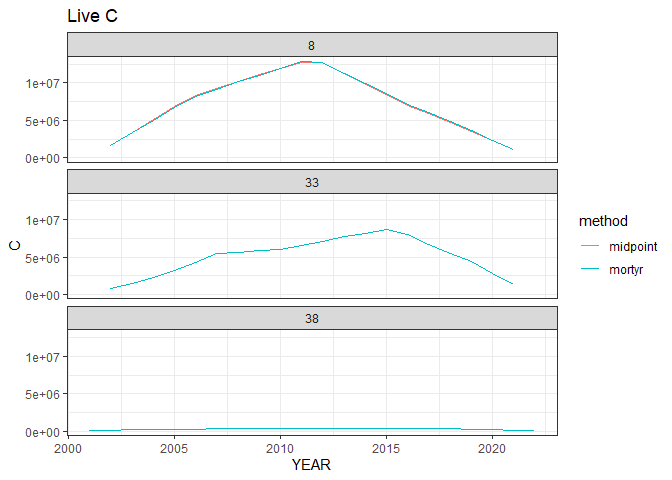
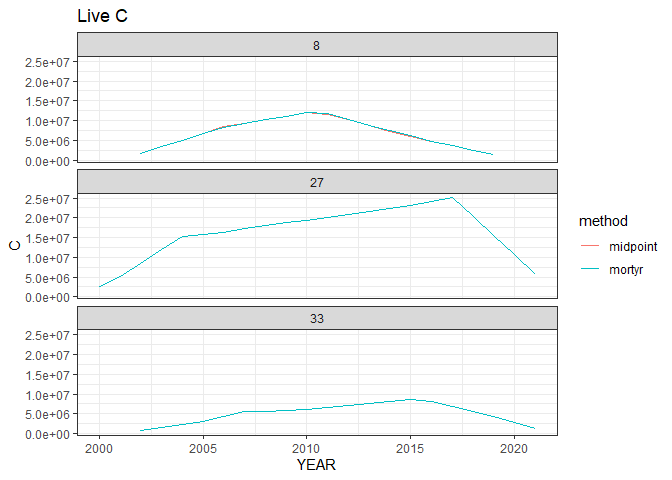
Swap MN for ND (will not run on actions)

diff --git a/carbon.md b/carbon.md
@@ -84,33 +84,33 @@ knitr::kable(some_trees)
 
 | TREE_CN | PLT_CN | PREV_TRE_CN | INVYR | STATECD | UNITCD | COUNTYCD | PLOT | SUBP | TREE | CONDID | PREVCOND | STATUSCD | SPCD | SPGRPCD | DIA | DIAHTCD | HT | HTCD | ACTUALHT | TREECLCD | CR | CCLCD | TREEGRCD | AGENTCD | CULL | DAMLOC1 | DAMTYP1 | DAMSEV1 | DAMLOC2 | DAMTYP2 | DAMSEV2 | DECAYCD | STOCKING | WDLDSTEM | VOLCFNET | VOLCFGRS | VOLCSNET | VOLCSGRS | VOLBFNET | VOLBFGRS | VOLCFSND | DIACHECK | MORTYR | SALVCD | UNCRCD | CPOSCD | CLIGHTCD | CVIGORCD | CDENCD | CDIEBKCD | TRANSCD | TREEHISTCD | BHAGE | TOTAGE | CULLDEAD | CULLFORM | CULLMSTOP | CULLBF | CULLCF | BFSND | CFSND | SAWHT | BOLEHT | FORMCL | HTCALC | HRDWD_CLUMP_CD | SITREE | CREATED_DATE | MODIFIED_DATE | MORTCD | HTDMP | ROUGHCULL | MIST_CL_CD | CULL_FLD | RECONCILECD | PREVDIA | P2A_GRM_FLG | TREECLCD_NERS | TREECLCD_SRS | TREECLCD_NCRS | TREECLCD_RMRS | STANDING_DEAD_CD | PREV_STATUS_CD | PREV_WDLDSTEM | TPA_UNADJ | DRYBIO_BOLE | DRYBIO_STUMP | DRYBIO_BG | CARBON_AG | CARBON_BG | CYCLE | SUBCYCLE | BORED_CD_PNWRS | DAMLOC1_PNWRS | DAMLOC2_PNWRS | DIACHECK_PNWRS | DMG_AGENT1_CD_PNWRS | DMG_AGENT2_CD_PNWRS | DMG_AGENT3_CD_PNWRS | MIST_CL_CD_PNWRS | SEVERITY1_CD_PNWRS | SEVERITY1A_CD_PNWRS | SEVERITY1B_CD_PNWRS | SEVERITY2_CD_PNWRS | SEVERITY2A_CD_PNWRS | SEVERITY2B_CD_PNWRS | SEVERITY3_CD_PNWRS | UNKNOWN_DAMTYP1_PNWRS | UNKNOWN_DAMTYP2_PNWRS | PREV_PNTN_SRS | DISEASE_SRS | DIEBACK_SEVERITY_SRS | DAMAGE_AGENT_CD1 | DAMAGE_AGENT_CD2 | DAMAGE_AGENT_CD3 | CENTROID_DIA | CENTROID_DIA_HT | CENTROID_DIA_HT_ACTUAL | UPPER_DIA | UPPER_DIA_HT | VOLCSSND | DRYBIO_SAWLOG | DAMAGE_AGENT_CD1_SRS | DAMAGE_AGENT_CD2_SRS | DAMAGE_AGENT_CD3_SRS | DRYBIO_AG | ACTUALHT_CALC | ACTUALHT_CALC_CD | CULL_BF_ROTTEN | CULL_BF_ROTTEN_CD | CULL_BF_ROUGH | CULL_BF_ROUGH_CD | PREVDIA_FLD | TREECLCD_31_NCRS | TREE_GRADE_NCRS | BOUGHS_AVAILABLE_NCRS | BOUGHS_HRVST_NCRS | TREECLCD_31_NERS | AGENTCD_NERS | BFSNDCD_NERS | AGECHKCD_RMRS | PREV_ACTUALHT_RMRS | PREV_AGECHKCD_RMRS | PREV_BHAGE_RMRS | PREV_HT_RMRS | PREV_TOTAGE_RMRS | PREV_TREECLCD_RMRS | RADAGECD_RMRS | RADGRW_RMRS | VOLBSGRS | VOLBSNET | SAPLING_FUSIFORM_SRS | EPIPHYTE_PNWRS | ROOT_HT_PNWRS | CAVITY_USE_PNWRS | CORE_LENGTH_PNWRS | CULTURALLY_KILLED_PNWRS | DIA_EST_PNWRS | GST_PNWRS | INC10YR_PNWRS | INC5YRHT_PNWRS | INC5YR_PNWRS | RING_COUNT_INNER_2INCHES_PNWRS | RING_COUNT_PNWRS | SNAG_DIS_CD_PNWRS | CONEPRESCD1 | CONEPRESCD2 | CONEPRESCD3 | MASTCD | VOLTSGRS | VOLTSGRS_BARK | VOLTSSND | VOLTSSND_BARK | VOLCFGRS_STUMP | VOLCFGRS_STUMP_BARK | VOLCFSND_STUMP | VOLCFSND_STUMP_BARK | VOLCFGRS_BARK | VOLCFGRS_TOP | VOLCFGRS_TOP_BARK | VOLCFSND_BARK | VOLCFSND_TOP | VOLCFSND_TOP_BARK | VOLCFNET_BARK | VOLCSGRS_BARK | VOLCSSND_BARK | VOLCSNET_BARK | DRYBIO_STEM | DRYBIO_STEM_BARK | DRYBIO_STUMP_BARK | DRYBIO_BOLE_BARK | DRYBIO_BRANCH | DRYBIO_FOLIAGE | DRYBIO_SAWLOG_BARK | PREV_ACTUALHT_FLD | PREV_HT_FLD | PLOT_COMPOSITE_ID | TREE_COMPOSITE_ID |
 |---:|---:|:---|---:|---:|---:|---:|---:|---:|---:|---:|:---|---:|---:|---:|---:|---:|---:|---:|---:|---:|---:|---:|:---|---:|---:|:---|:---|:---|:---|:---|:---|:---|---:|---:|---:|---:|---:|---:|---:|---:|---:|---:|:---|---:|:---|:---|:---|:---|:---|:---|:---|:---|---:|---:|:---|:---|:---|:---|:---|:---|:---|:---|:---|:---|:---|:---|:---|:---|:---|:---|:---|:---|:---|:---|:---|:---|:---|:---|:---|:---|:---|---:|:---|:---|---:|---:|---:|---:|---:|---:|---:|---:|:---|:---|:---|:---|:---|:---|:---|:---|:---|:---|:---|:---|:---|:---|:---|:---|:---|:---|:---|:---|:---|:---|:---|:---|:---|:---|:---|:---|:---|:---|:---|:---|:---|---:|:---|:---|:---|:---|:---|:---|:---|:---|:---|:---|:---|:---|:---|:---|:---|:---|:---|:---|:---|:---|:---|:---|:---|:---|:---|:---|:---|:---|:---|:---|:---|:---|:---|:---|:---|:---|:---|:---|:---|:---|:---|:---|:---|---:|:---|---:|:---|:---|:---|:---|:---|:---|:---|:---|:---|:---|:---|:---|:---|:---|:---|:---|:---|---:|---:|:---|:---|:---|:---|:---|:---|:---|
-| 6.888012e+14 | 1.887618e+14 | 31290274010690 | 2018 | 8 | 2 | 43 | 84371 | 3 | 31 | 1 | 1 | 1 | 814 | 48 | 1.2 | 2 | 4 | 1 | 4 | 3 | 60 | 3 | NA | NA | NA | NA | NA | NA | NA | NA | NA | NA | 1.0343 | 1 | NA | NA | NA | NA | NA | NA | NA | 0 | NA | NA | NA | NA | NA | NA | NA | NA | NA | NA | NA | NA | NA | NA | NA | NA | NA | NA | NA | NA | NA | NA | 4 | NA | NA | 2019-07-24 14:14:24 | 2024-08-29 11:48:28 | NA | NA | NA | 0 | NA | NA | 1.1 | NA | NA | NA | NA | 2 | NA | 1 | 1 | 74.965282 | NA | NA | 1.127712 | 0.460138 | 0.477022 | 3 | 7 | NA | NA | NA | NA | NA | NA | NA | NA | NA | NA | NA | NA | NA | NA | NA | NA | NA | NA | NA | NA | NA | NA | NA | NA | NA | NA | NA | NA | NA | NA | NA | NA | NA | 1.087796 | NA | NA | NA | NA | NA | NA | 1.1 | NA | NA | NA | NA | NA | NA | NA | NA | 4 | NA | NA | 4 | NA | 2 | 4 | NA | NA | NA | NA | NA | NA | NA | NA | NA | NA | NA | NA | NA | NA | NA | NA | NA | NA | NA | NA | NA | NA | NA | NA | NA | NA | NA | NA | NA | NA | NA | NA | NA | NA | NA | NA | NA | NA | NA | NA | NA | NA | NA | NA | 0.836576 | NA | 4 | 4 | 8_2_43_84371 | 8_2_43_84371_3_31 |
-| 6.888012e+14 | 1.887618e+14 | 31290277010690 | 2018 | 8 | 2 | 43 | 84371 | 4 | 1 | 1 | 1 | 1 | 106 | 23 | 14.4 | 2 | 15 | 1 | 15 | 3 | 55 | 2 | NA | NA | 1 | NA | NA | NA | NA | NA | NA | NA | 8.4431 | 6 | NA | NA | NA | NA | NA | NA | NA | 2 | NA | NA | 63 | NA | NA | NA | NA | NA | NA | NA | NA | NA | 7 | NA | 0 | NA | NA | NA | NA | NA | NA | NA | 16 | NA | NA | 2019-07-24 14:14:24 | 2024-08-29 11:48:28 | NA | NA | NA | 0 | 1 | NA | 10.1 | NA | NA | NA | NA | 2 | NA | 1 | 7 | 6.018046 | NA | NA | 72.078269 | 142.397366 | 34.309256 | 3 | 7 | NA | NA | NA | NA | NA | NA | NA | NA | NA | NA | NA | NA | NA | NA | NA | NA | NA | NA | NA | NA | 41006 | 0 | NA | NA | NA | NA | NA | NA | NA | NA | NA | NA | NA | 299.154130 | NA | NA | NA | NA | NA | NA | 10.1 | NA | NA | NA | NA | NA | NA | NA | NA | 17 | NA | NA | 17 | NA | 2 | 0 | NA | NA | NA | NA | NA | NA | NA | NA | NA | NA | NA | NA | NA | NA | NA | NA | NA | NA | NA | NA | NA | 10.471606 | NA | 10.366890 | NA | NA | NA | NA | NA | NA | NA | NA | NA | NA | NA | NA | NA | NA | NA | NA | NA | NA | NA | NA | 29.041997 | NA | 17 | 17 | 8_2_43_84371 | 8_2_43_84371_4_1 |
-| 6.888012e+14 | 1.887618e+14 | 31290275010690 | 2018 | 8 | 2 | 43 | 84371 | 3 | 32 | 1 | 1 | 1 | 814 | 48 | 1.7 | 2 | 6 | 1 | 6 | 3 | 55 | 3 | NA | NA | NA | NA | NA | NA | NA | NA | NA | NA | 1.9769 | 1 | NA | NA | NA | NA | NA | NA | NA | 0 | NA | NA | NA | NA | NA | NA | NA | NA | NA | NA | NA | NA | NA | NA | NA | NA | NA | NA | NA | NA | NA | NA | 6 | NA | NA | 2019-07-24 14:14:24 | 2024-08-29 11:48:28 | NA | NA | NA | 0 | NA | NA | 1.4 | NA | NA | NA | NA | 2 | NA | 1 | 1 | 74.965282 | NA | NA | 1.886233 | 1.150823 | 0.797877 | 3 | 7 | NA | NA | NA | NA | NA | NA | NA | NA | NA | NA | NA | NA | NA | NA | NA | NA | NA | NA | NA | NA | NA | NA | NA | NA | NA | NA | NA | NA | NA | NA | NA | NA | NA | 2.720621 | NA | NA | NA | NA | NA | NA | 1.4 | NA | NA | NA | NA | NA | NA | NA | NA | 5 | NA | NA | 5 | NA | 2 | 4 | NA | NA | NA | NA | NA | NA | NA | NA | NA | NA | NA | NA | NA | NA | NA | NA | NA | NA | NA | NA | NA | 0.000000 | NA | 0.000000 | NA | NA | NA | NA | NA | NA | NA | NA | NA | NA | NA | NA | NA | NA | NA | NA | NA | NA | NA | NA | 0.858256 | NA | 5 | 5 | 8_2_43_84371 | 8_2_43_84371_3_32 |
-| 6.888012e+14 | 1.887618e+14 | 31290276010690 | 2018 | 8 | 2 | 43 | 84371 | 3 | 33 | 1 | 1 | 1 | 814 | 48 | 1.6 | 2 | 5 | 1 | 5 | 3 | 80 | 3 | NA | NA | NA | NA | NA | NA | NA | NA | NA | NA | 1.7661 | 1 | NA | NA | NA | NA | NA | NA | NA | 0 | NA | NA | NA | NA | NA | NA | NA | NA | NA | NA | NA | NA | NA | NA | NA | NA | NA | NA | NA | NA | NA | NA | 5 | NA | NA | 2019-07-24 14:14:24 | 2024-08-29 11:48:28 | NA | NA | NA | 0 | NA | NA | 1.2 | NA | NA | NA | NA | 2 | NA | 1 | 1 | 74.965282 | NA | NA | 1.721430 | 0.895653 | 0.728165 | 3 | 7 | NA | NA | NA | NA | NA | NA | NA | NA | NA | NA | NA | NA | NA | NA | NA | NA | NA | NA | NA | NA | NA | NA | NA | NA | NA | NA | NA | NA | NA | NA | NA | NA | NA | 2.117384 | NA | NA | NA | NA | NA | NA | 1.2 | NA | NA | NA | NA | NA | NA | NA | NA | 4 | NA | NA | 4 | NA | 2 | 4 | NA | NA | NA | NA | NA | NA | NA | NA | NA | NA | NA | NA | NA | NA | NA | NA | NA | NA | NA | NA | NA | 0.000000 | NA | 0.000000 | NA | NA | NA | NA | NA | NA | NA | NA | NA | NA | NA | NA | NA | NA | NA | NA | NA | NA | NA | NA | 0.842857 | NA | 4 | 4 | 8_2_43_84371 | 8_2_43_84371_3_33 |
-| 6.888012e+14 | 1.887618e+14 | NA | 2018 | 8 | 2 | 43 | 84371 | 3 | 34 | 1 | 1 | 1 | 814 | 48 | 1.2 | 2 | 5 | 1 | 5 | 3 | 50 | 3 | NA | NA | NA | NA | NA | NA | NA | NA | NA | NA | 1.0343 | 1 | NA | NA | NA | NA | NA | NA | NA | 0 | NA | NA | NA | NA | NA | NA | NA | NA | NA | NA | NA | NA | NA | NA | NA | NA | NA | NA | NA | NA | NA | NA | 5 | NA | NA | 2019-07-24 14:14:24 | 2024-08-29 11:48:28 | NA | NA | NA | 0 | NA | 1 | NA | NA | NA | NA | NA | 2 | NA | NA | NA | 74.965282 | NA | NA | 1.127712 | 0.550686 | 0.477022 | 3 | 7 | NA | NA | NA | NA | NA | NA | NA | NA | NA | NA | NA | NA | NA | NA | NA | NA | NA | NA | NA | NA | NA | NA | NA | NA | NA | NA | NA | NA | NA | NA | NA | NA | NA | 1.301857 | NA | NA | NA | NA | NA | NA | NA | NA | NA | NA | NA | NA | NA | NA | NA | NA | NA | NA | NA | NA | NA | 0 | NA | NA | NA | NA | NA | NA | NA | NA | NA | NA | NA | NA | NA | NA | NA | NA | NA | NA | NA | NA | NA | NA | NA | NA | NA | NA | NA | NA | NA | NA | NA | NA | NA | NA | NA | NA | NA | NA | NA | NA | NA | NA | NA | NA | 0.836576 | NA | NA | NA | 8_2_43_84371 | 8_2_43_84371_3_34 |
-| 6.888042e+14 | 1.887618e+14 | 31290297010690 | 2018 | 8 | 2 | 43 | 84560 | 1 | 4 | 1 | 1 | 2 | 108 | 21 | 7.7 | 1 | 45 | 1 | 45 | 3 | NA | NA | NA | 10 | 1 | NA | NA | NA | NA | NA | NA | 2 | NA | NA | 5.689644 | 5.747115 | NA | NA | NA | NA | 5.689644 | 0 | 2013 | NA | NA | NA | NA | NA | NA | NA | NA | NA | NA | NA | 98 | NA | 0 | NA | NA | NA | NA | NA | NA | NA | 46 | NA | NA | 2019-07-24 14:14:27 | 2024-08-29 11:48:28 | NA | 4.7 | NA | NA | 1 | NA | 8.0 | NA | NA | NA | NA | 5 | 1 | 1 | NA | 6.018046 | 143.2855 | 9.036866 | 43.319482 | 105.211610 | 21.833019 | 3 | 7 | NA | NA | NA | NA | NA | NA | NA | NA | NA | NA | NA | NA | NA | NA | NA | NA | NA | NA | NA | NA | NA | NA | NA | NA | NA | NA | NA | NA | NA | NA | NA | NA | NA | 208.753195 | NA | NA | NA | NA | NA | NA | 8.0 | NA | NA | NA | NA | NA | NA | NA | NA | 46 | NA | NA | 46 | NA | 1 | NA | NA | NA | NA | NA | NA | NA | NA | NA | NA | NA | NA | NA | NA | NA | NA | NA | NA | NA | NA | NA | NA | 6.569751 | 0.575756 | 6.504053 | 0.460605 | 0.362464 | 0.031765 | 0.35884 | 0.025412 | 0.503663 | 0.460171 | 0.040328 | 0.40293 | 0.455569 | 0.032263 | 0.322344 | NA | NA | NA | 163.795252 | 14.101517 | 0.778005 | 12.33579 | 30.856426 | 0.0 | NA | 46 | 46 | 8_2_43_84560 | 8_2_43_84560_1_4 |
+| 7.564465e+14 | 4.319174e+14 | 39452950010690 | 2019 | 8 | 2 | 43 | 82555 | 2 | 5 | 1 | 1 | 1 | 69 | 23 | 6.4 | 2 | 9 | 1 | 9 | 3 | 50 | 4 | NA | NA | 0 | NA | NA | NA | NA | NA | NA | NA | 0.6539 | 2 | NA | NA | NA | NA | NA | NA | NA | 0 | NA | NA | 85 | NA | NA | NA | NA | NA | NA | NA | NA | 99 | 60 | NA | 0 | NA | NA | NA | NA | NA | NA | NA | 9 | NA | NA | 2020-06-25 11:27:28 | 2024-04-08 21:06:20 | NA | NA | NA | 0 | 0 | NA | 6.1 | NA | NA | NA | NA | 2 | NA | 1 | 2 | 6.018046 | NA | NA | 5.072544 | 16.13346 | 2.419603 | 3 | 8 | NA | NA | NA | NA | NA | NA | NA | NA | NA | NA | NA | NA | NA | NA | NA | NA | NA | NA | NA | NA | 90002 | 90011 | 0 | NA | NA | NA | NA | NA | NA | NA | NA | NA | NA | 33.82276 | NA | NA | NA | NA | NA | NA | 6.1 | NA | NA | NA | NA | NA | NA | NA | 1 | 9 | 1 | NA | 9 | 89 | 2 | 2 | 1 | NA | NA | NA | NA | NA | NA | NA | NA | NA | NA | NA | NA | NA | NA | NA | NA | NA | NA | NA | NA | 0.780841 | NA | 0.780841 | NA | NA | NA | NA | NA | NA | NA | NA | NA | NA | NA | NA | NA | NA | NA | NA | NA | NA | NA | NA | 8.506236 | NA | NA | NA | 8_2_43_82555 | 8_2_43_82555_2_5 |
+| 7.564465e+14 | 4.319174e+14 | 39452952010690 | 2019 | 8 | 2 | 43 | 82555 | 2 | 7 | 1 | 1 | 1 | 106 | 23 | 7.4 | 2 | 17 | 1 | 17 | 3 | 70 | 3 | NA | NA | 0 | NA | NA | NA | NA | NA | NA | NA | 1.7132 | 1 | NA | NA | NA | NA | NA | NA | NA | 0 | NA | NA | 85 | NA | NA | NA | NA | NA | NA | NA | NA | NA | 0 | NA | 0 | NA | NA | NA | NA | NA | NA | NA | 17 | NA | NA | 2020-06-25 11:27:28 | 2024-04-08 21:06:20 | NA | NA | NA | 0 | 0 | NA | 7.0 | NA | NA | NA | NA | 2 | NA | 1 | 1 | 6.018046 | NA | NA | 18.895346 | 44.23437 | 8.994185 | 3 | 8 | NA | NA | NA | NA | NA | NA | NA | NA | NA | NA | NA | NA | NA | NA | NA | NA | NA | NA | NA | NA | 0 | NA | NA | NA | NA | NA | NA | NA | NA | NA | NA | NA | NA | 92.92934 | NA | NA | NA | NA | NA | NA | 7.0 | NA | NA | NA | NA | NA | NA | NA | NA | 17 | NA | NA | 17 | NA | 2 | 4 | NA | NA | NA | NA | NA | NA | NA | NA | NA | NA | NA | NA | NA | NA | NA | NA | NA | NA | NA | NA | NA | 2.675795 | NA | 2.675795 | NA | NA | NA | NA | NA | NA | NA | NA | NA | NA | NA | NA | NA | NA | NA | NA | NA | NA | NA | NA | 10.494132 | NA | NA | NA | 8_2_43_82555 | 8_2_43_82555_2_7 |
+| 7.564465e+14 | 4.319174e+14 | 39452955010690 | 2019 | 8 | 2 | 43 | 82555 | 2 | 10 | 1 | 1 | 1 | 69 | 23 | 10.4 | 2 | 9 | 1 | 9 | 3 | 80 | 3 | NA | NA | 0 | NA | NA | NA | NA | NA | NA | NA | 3.2265 | 2 | NA | NA | NA | NA | NA | NA | NA | 2 | NA | NA | 90 | NA | NA | NA | NA | NA | NA | NA | NA | NA | 30 | NA | 0 | NA | NA | NA | NA | NA | NA | NA | 9 | NA | NA | 2020-06-25 11:27:28 | 2024-04-08 21:06:20 | NA | NA | NA | 0 | 0 | NA | 10.7 | NA | NA | NA | NA | 2 | NA | 1 | 2 | 6.018046 | NA | NA | 13.701308 | 42.93031 | 6.535524 | 3 | 8 | NA | NA | NA | NA | NA | NA | NA | NA | NA | NA | NA | NA | NA | NA | NA | NA | NA | NA | NA | NA | 90011 | 0 | NA | NA | NA | NA | NA | NA | NA | NA | NA | NA | NA | 90.00065 | NA | NA | NA | NA | NA | NA | 10.7 | NA | NA | NA | NA | NA | NA | NA | NA | 9 | NA | NA | 9 | NA | 2 | 0 | NA | NA | NA | NA | NA | NA | NA | NA | NA | NA | NA | NA | NA | NA | NA | NA | NA | NA | NA | NA | NA | 2.158170 | NA | 2.158170 | NA | NA | NA | NA | NA | NA | NA | NA | NA | NA | NA | NA | NA | NA | NA | NA | NA | NA | NA | NA | 17.490448 | NA | NA | NA | 8_2_43_82555 | 8_2_43_82555_2_10 |
+| 7.564465e+14 | 4.319174e+14 | 39452951010690 | 2019 | 8 | 2 | 43 | 82555 | 2 | 6 | 1 | 1 | 1 | 106 | 23 | 6.8 | 2 | 14 | 1 | 14 | 3 | 50 | 3 | NA | NA | 0 | NA | NA | NA | NA | NA | NA | NA | 1.4639 | 1 | NA | NA | NA | NA | NA | NA | NA | 0 | NA | NA | 80 | NA | NA | NA | NA | NA | NA | NA | NA | NA | 0 | NA | 0 | NA | NA | NA | NA | NA | NA | NA | 13 | NA | NA | 2020-06-25 11:27:28 | 2024-04-08 21:06:20 | NA | NA | NA | 0 | 0 | NA | 6.9 | NA | NA | NA | NA | 2 | NA | 1 | 1 | 6.018046 | NA | NA | 12.649085 | 31.18680 | 6.020964 | 3 | 8 | NA | NA | NA | NA | NA | NA | NA | NA | NA | NA | NA | NA | NA | NA | NA | NA | NA | NA | NA | NA | 0 | NA | NA | NA | NA | NA | NA | NA | NA | NA | NA | NA | NA | 65.51848 | NA | NA | NA | NA | NA | NA | 6.9 | NA | NA | NA | NA | NA | NA | NA | NA | 12 | NA | NA | 12 | NA | 2 | 0 | NA | NA | NA | NA | NA | NA | NA | NA | NA | NA | NA | NA | NA | NA | NA | NA | NA | NA | NA | NA | NA | 1.783027 | NA | 1.783027 | NA | NA | NA | NA | NA | NA | NA | NA | NA | NA | NA | NA | NA | NA | NA | NA | NA | NA | NA | NA | 9.279784 | NA | NA | NA | 8_2_43_82555 | 8_2_43_82555_2_6 |
+| 7.564465e+14 | 4.319174e+14 | 39452953010690 | 2019 | 8 | 2 | 43 | 82555 | 2 | 8 | 1 | 1 | 1 | 69 | 23 | 13.7 | 2 | 9 | 1 | 9 | 3 | 40 | 4 | NA | NA | 0 | NA | NA | NA | NA | NA | NA | NA | 2.6935 | 5 | NA | NA | NA | NA | NA | NA | NA | 0 | NA | NA | 90 | NA | NA | NA | NA | NA | NA | NA | NA | NA | 80 | NA | 0 | NA | NA | NA | NA | NA | NA | NA | 9 | NA | NA | 2020-06-25 11:27:28 | 2024-04-08 21:06:20 | NA | NA | NA | 0 | 0 | NA | 13.5 | NA | NA | NA | NA | 2 | NA | 1 | 5 | 6.018046 | NA | NA | 24.497083 | 75.06024 | 11.685109 | 3 | 8 | NA | NA | NA | NA | NA | NA | NA | NA | NA | NA | NA | NA | NA | NA | NA | NA | NA | NA | NA | NA | 90011 | 0 | NA | NA | NA | NA | NA | NA | NA | NA | NA | NA | NA | 157.35900 | NA | NA | NA | NA | NA | NA | 13.5 | NA | NA | NA | NA | NA | NA | NA | NA | 8 | NA | NA | 8 | NA | 2 | 0 | NA | NA | NA | NA | NA | NA | NA | NA | NA | NA | NA | NA | NA | NA | NA | NA | NA | NA | NA | NA | NA | 3.892188 | NA | 3.892188 | NA | NA | NA | NA | NA | NA | NA | NA | NA | NA | NA | NA | NA | NA | NA | NA | NA | NA | NA | NA | 26.846541 | NA | NA | NA | 8_2_43_82555 | 8_2_43_82555_2_8 |
+| 7.564465e+14 | 4.319174e+14 | 39452954010690 | 2019 | 8 | 2 | 43 | 82555 | 2 | 9 | 1 | 1 | 1 | 69 | 23 | 17.0 | 2 | 12 | 1 | 11 | 3 | 20 | 4 | NA | NA | 0 | NA | NA | NA | NA | NA | NA | NA | 4.0239 | 2 | NA | NA | NA | NA | NA | NA | NA | 2 | NA | NA | 65 | NA | NA | NA | NA | NA | NA | NA | NA | NA | 90 | NA | 0 | NA | NA | NA | NA | NA | NA | NA | 12 | NA | NA | 2020-06-25 11:27:28 | 2024-04-08 21:06:20 | NA | NA | NA | 0 | 0 | NA | 17.6 | NA | NA | NA | NA | 2 | NA | 1 | 2 | 6.018046 | NA | NA | 53.042916 | 153.11245 | 25.301471 | 3 | 8 | NA | NA | NA | NA | NA | NA | NA | NA | NA | NA | NA | NA | NA | NA | NA | NA | NA | NA | NA | NA | 90001 | 90002 | 90011 | NA | NA | NA | NA | NA | NA | NA | NA | NA | NA | 320.99047 | NA | NA | NA | NA | NA | NA | 17.6 | NA | NA | NA | NA | NA | NA | NA | NA | 12 | NA | NA | 12 | NA | 2 | 0 | NA | NA | NA | NA | NA | NA | NA | NA | NA | NA | NA | NA | NA | NA | NA | NA | NA | NA | NA | NA | NA | 8.471895 | NA | 8.471895 | NA | NA | NA | NA | NA | NA | NA | NA | NA | NA | NA | NA | NA | NA | NA | NA | NA | NA | NA | NA | 10.083742 | NA | NA | NA | 8_2_43_82555 | 8_2_43_82555_2_9 |
 
 ``` r
 # Pull some data from the carbon estimates table
 
-co_annual_carbon_midpoint <- tbl(con, "tree_carbon_annualized_midpoint") |>
-  filter(STATECD == 8) |>
+mn_annual_carbon_midpoint <- tbl(con, "tree_carbon_annualized_midpoint") |>
+  filter(STATECD == 27) |>
   arrange(TREE_COMPOSITE_ID, YEAR) |>
   head() |>
   collect()
 
-knitr::kable(co_annual_carbon_midpoint)
+knitr::kable(mn_annual_carbon_midpoint)
 ```
 
 | ID | PROVINCE | SFTWD_HRDWD | STATECD | TREE_COMPOSITE_ID | TRE_CN | YEAR | midpoint_dead_year | HT | DIA | ACTUALHT | PLT_CN | STATUSCD | SPCD | TREECLCD | CULL | VOLCFGRS | DRYBIO_AG | CARBON_AG | STANDING_DEAD_CD | DECAYCD | CR | ACTUAL_HT | ECOSUBCD | STDORGCD | JENKINS_SPGRPCD | WDSG | CULL_DECAY_RATIO | DECAY_WD | DECAY_BK | DECAY_BR | C_FRAC | DIVISION | CRmn | BROKEN_TOP | SPCD_DIVISION | SPCD_NUMERIC | k | saw | DBH | THT | VTOTIB_GROSS | VTOTBK_GROSS | VTOTOB_GROSS | HT4 | VMERIB_GROSS | VMEROB_GROSS | VMERBK_GROSS | VSTPIB_GROSS | VSTPOB_GROSS | VSTPBK_GROSS | VTOPIB_GROSS | VTOPOB_GROSS | VTOPBK_GROSS | HTSAW | VSAWIB_GROSS | VSAWOB_GROSS | VSAWBK_GROSS | HT_RAT_ADJ | VTOTIB_PRESENT | VTOTBK_PRESENT | VTOTOB_PRESENT | VMERIB_PRESENT | VMERBK_PRESENT | VMEROB_PRESENT | VSAWIB_PRESENT | VSAWBK_PRESENT | VSAWOB_PRESENT | VSTPIB_PRESENT | VSTPBK_PRESENT | VSTPOB_PRESENT | VTOPIB_PRESENT | VTOPBK_PRESENT | VTOPOB_PRESENT | SND_WOOD_DECAY | VTOTIB_SOUND | VMERIB_SOUND | VSTPIB_SOUND | VTOPIB_SOUND | VSAWIB_SOUND | VTOTBK_SOUND | VSTPBK_SOUND | VMERBK_SOUND | VTOPBK_SOUND | VSAWBK_SOUND | VTOTOB_SOUND | VMEROB_SOUND | VSTPOB_SOUND | VTOPOB_SOUND | VSAWOB_SOUND | Total | Bark | Branch | FOLIAGE | Wood | CULL_REDUCTION | WOOD_REDUCTION | BARK_REDUCTION | CRprop_HT | broken_crn_prop | BRANCH_REDUCTION | FOLIAGE_REDUCTION | Wood_Reduced | Bark_Reduced | Branch_Reduced | Foliage_Reduced | AGB_Reduction_Factor | Total_Reduced | TotalC | Diff | WoodR | BarkR | BranchR | WoodAdd | BarkAdd | BranchAdd | WoodF | BarkF | BranchF | WDSGAdj | BKSGAdj | WMERIB | WMERBK | WMEROB | WSTPIB | WSTPBK | WSTPOB | WTOPIB | WTOPBK | WTOPOB | WSAWIB | WSAWBK | WSAWOB | WTOTIB | WTOTBK | WTOTOB | WTOTBCH | WMERBCH | BIOMASS | CARBON | AGB |
 |---:|:---|:---|---:|:---|---:|---:|---:|---:|---:|---:|---:|---:|---:|---:|---:|---:|---:|---:|---:|---:|---:|---:|:---|---:|---:|---:|---:|---:|---:|---:|---:|:---|---:|:---|:---|---:|---:|---:|---:|---:|---:|---:|---:|---:|---:|---:|---:|---:|---:|---:|---:|---:|---:|---:|---:|---:|---:|---:|---:|---:|---:|---:|---:|---:|---:|---:|---:|---:|---:|---:|---:|---:|---:|---:|---:|---:|---:|---:|---:|---:|---:|---:|---:|---:|---:|---:|---:|---:|---:|---:|---:|---:|---:|---:|---:|---:|---:|---:|---:|---:|---:|---:|---:|---:|---:|---:|---:|---:|---:|---:|---:|---:|---:|---:|---:|---:|---:|---:|---:|---:|---:|---:|---:|---:|---:|---:|---:|---:|---:|---:|---:|---:|---:|---:|---:|---:|---:|---:|---:|---:|
-| 611338 | M331 | S | 8 | 8_1_119_80086_1_1 | 3.167379e+13 | 2002 | NA | 38.0 | 5.20 | 38.0 | 3.167378e+13 | 1 | 122 | 2 | 0 | 1.384486 | 92.53076 | 47.46828 | 0 | 0 | 22 | 38 | M331In | 0 | 4 | 0.38 | 0.92 | 1 | 1 | 1 | 51.3 | M330 | 56.1 | FALSE | 122 M330 | 122 | 9 | 7 | 5.20 | 38.0 | 2.163509 | 0.8899628 | 3.053472 | 15.80282 | 1.384483 | 1.953993 | 0.5695095 | 0.1362120 | 0.1922430 | 0.0560310 | 0.6428133 | 0.9072355 | 0.2644223 | 5 | NA | NA | NA | 1 | 2.163509 | 0.8899628 | 3.053472 | 1.384483 | 0.5695095 | 1.953993 | NA | NA | NA | 0.1362120 | 0.0560310 | 0.1922430 | 0.6428133 | 0.2644223 | 0.9072355 | 1 | 2.163509 | 1.384483 | 0.1362120 | 0.6428133 | NA | 0.8899628 | 0.0560310 | 0.5695095 | 0.2644223 | NA | 3.053472 | 1.953993 | 0.1922430 | 0.9072355 | NA | 92.53076 | 15.72870 | 23.38646 | 7.338729 | 51.30112 | 1 | 1 | 1 | 0.22 | 1 | 1 | 1 | 51.30112 | 15.72870 | 23.38646 | 7.338729 | 1 | 92.53076 | 90.41627 | 2.114484 | 0.5673881 | 0.1739587 | 0.2586532 | 1.199733 | 0.3678329 | 0.5469180 | 52.50085 | 16.09653 | 23.93338 | 0.3888867 | 0.2898517 | 33.59661 | 10.30057 | 43.89718 | 3.305392 | 1.013419 | 4.318811 | 15.59885 | 4.782538 | 20.38139 | NA | NA | NA | 52.50085 | 16.09653 | 68.59738 | 23.93338 | 44.31476 | 92.53076 | 47.46828 | 99.86949 |
-| 346853 | M331 | S | 8 | 8_1_119_80086_1_1 | 3.167379e+13 | 2003 | NA | 38.8 | 5.26 | 38.8 | 3.167378e+13 | 1 | 122 | 2 | 0 | 1.384486 | 92.53076 | 47.46828 | 0 | 0 | 22 | 38 | M331In | 0 | 4 | 0.38 | 0.92 | 1 | 1 | 1 | 51.3 | M330 | 56.1 | FALSE | 122 M330 | 122 | 9 | 7 | 5.26 | 38.8 | 2.255569 | 0.9250256 | 3.180595 | 16.51607 | 1.470880 | 2.074099 | 0.6032189 | 0.1392238 | 0.1963206 | 0.0570967 | 0.6454649 | 0.9101749 | 0.2647100 | 5 | NA | NA | NA | 1 | 2.255569 | 0.9250256 | 3.180595 | 1.470880 | 0.6032189 | 2.074099 | NA | NA | NA | 0.1392238 | 0.0570967 | 0.1963206 | 0.6454649 | 0.2647100 | 0.9101749 | 1 | 2.255569 | 1.470880 | 0.1392238 | 0.6454649 | NA | 0.9250256 | 0.0570967 | 0.6032189 | 0.2647100 | NA | 3.180595 | 2.074099 | 0.1963206 | 0.9101749 | NA | 95.88399 | 16.27295 | 23.84532 | 7.468633 | 53.48405 | 1 | 1 | 1 | 0.22 | 1 | 1 | 1 | 53.48405 | 16.27295 | 23.84532 | 7.468633 | 1 | 95.88399 | 93.60233 | 2.281660 | 0.5713966 | 0.1738520 | 0.2547514 | 1.303733 | 0.3966713 | 0.5812561 | 54.78779 | 16.66962 | 24.42658 | 0.3892629 | 0.2887935 | 35.72769 | 10.87044 | 46.59813 | 3.381748 | 1.028924 | 4.410672 | 15.67835 | 4.770263 | 20.44861 | NA | NA | NA | 54.78779 | 16.66962 | 71.45741 | 24.42658 | 44.87519 | 95.88399 | 49.18849 | 103.35262 |
-| 613659 | M331 | S | 8 | 8_1_119_80086_1_1 | 3.167379e+13 | 2004 | NA | 39.6 | 5.32 | 39.6 | 3.167378e+13 | 1 | 122 | 2 | 0 | 1.384486 | 92.53076 | 47.46828 | 0 | 0 | 22 | 38 | M331In | 0 | 4 | 0.38 | 0.92 | 1 | 1 | 1 | 51.3 | M330 | 56.1 | FALSE | 122 M330 | 122 | 9 | 7 | 5.32 | 39.6 | 2.350046 | 0.9608770 | 3.310923 | 17.23518 | 1.559845 | 2.197627 | 0.6377827 | 0.1422681 | 0.2004380 | 0.0581700 | 0.6479337 | 0.9128581 | 0.2649244 | 5 | NA | NA | NA | 1 | 2.350046 | 0.9608770 | 3.310923 | 1.559845 | 0.6377827 | 2.197627 | NA | NA | NA | 0.1422681 | 0.0581700 | 0.2004380 | 0.6479337 | 0.2649244 | 0.9128581 | 1 | 2.350046 | 1.559845 | 0.1422681 | 0.6479337 | NA | 0.9608770 | 0.0581700 | 0.6377827 | 0.2649244 | NA | 3.310923 | 2.197627 | 0.2004380 | 0.9128581 | NA | 99.30822 | 16.82744 | 24.30967 | 7.600001 | 55.72430 | 1 | 1 | 1 | 0.22 | 1 | 1 | 1 | 55.72430 | 16.82744 | 24.30967 | 7.600001 | 1 | 99.30822 | 96.86141 | 2.446809 | 0.5752993 | 0.1737270 | 0.2509738 | 1.407648 | 0.4250767 | 0.6140849 | 57.13195 | 17.25252 | 24.92376 | 0.3895992 | 0.2877399 | 37.92136 | 11.45137 | 49.37273 | 3.458677 | 1.044440 | 4.503117 | 15.75191 | 4.756709 | 20.50862 | NA | NA | NA | 57.13195 | 17.25252 | 74.38446 | 24.92376 | 45.43237 | 99.30822 | 50.94512 | 106.90822 |
-| 614745 | M331 | S | 8 | 8_1_119_80086_1_1 | 3.167379e+13 | 2005 | NA | 40.4 | 5.38 | 40.4 | 3.167378e+13 | 1 | 122 | 2 | 0 | 1.384486 | 92.53076 | 47.46828 | 0 | 0 | 22 | 38 | M331In | 0 | 4 | 0.38 | 0.92 | 1 | 1 | 1 | 51.3 | M330 | 56.1 | FALSE | 122 M330 | 122 | 9 | 7 | 5.38 | 40.4 | 2.446970 | 0.9975233 | 3.444493 | 17.95990 | 1.651399 | 2.324602 | 0.6732035 | 0.1453447 | 0.2045954 | 0.0592507 | 0.6502264 | 0.9152955 | 0.2650691 | 5 | NA | NA | NA | 1 | 2.446970 | 0.9975233 | 3.444493 | 1.651399 | 0.6732035 | 2.324602 | NA | NA | NA | 0.1453447 | 0.0592507 | 0.2045954 | 0.6502264 | 0.2650691 | 0.9152955 | 1 | 2.446970 | 1.651399 | 0.1453447 | 0.6502264 | NA | 0.9975233 | 0.0592507 | 0.6732035 | 0.2650691 | NA | 3.444493 | 2.324602 | 0.2045954 | 0.9152955 | NA | 102.80405 | 17.39221 | 24.77950 | 7.732820 | 58.02255 | 1 | 1 | 1 | 0.22 | 1 | 1 | 1 | 58.02255 | 17.39221 | 24.77950 | 7.732820 | 1 | 102.80405 | 100.19426 | 2.609793 | 0.5791005 | 0.1735849 | 0.2473145 | 1.511332 | 0.4530208 | 0.6454398 | 59.53388 | 17.84523 | 25.42494 | 0.3898980 | 0.2866914 | 40.17793 | 12.04330 | 52.22123 | 3.536182 | 1.059968 | 4.596150 | 15.81977 | 4.741964 | 20.56173 | NA | NA | NA | 59.53388 | 17.84523 | 77.37911 | 25.42494 | 45.98667 | 102.80405 | 52.73848 | 110.53687 |
-| 615828 | M331 | S | 8 | 8_1_119_80086_1_1 | 3.167379e+13 | 2006 | NA | 41.2 | 5.44 | 41.2 | 3.167378e+13 | 1 | 122 | 2 | 0 | 1.384486 | 92.53076 | 47.46828 | 0 | 0 | 22 | 38 | M331In | 0 | 4 | 0.38 | 0.92 | 1 | 1 | 1 | 51.3 | M330 | 56.1 | FALSE | 122 M330 | 122 | 9 | 7 | 5.44 | 41.2 | 2.546368 | 1.0349707 | 3.581339 | 18.68991 | 1.745561 | 2.455043 | 0.7094826 | 0.1484536 | 0.2087925 | 0.0603389 | 0.6523542 | 0.9175034 | 0.2651492 | 5 | NA | NA | NA | 1 | 2.546368 | 1.0349707 | 3.581339 | 1.745561 | 0.7094826 | 2.455043 | NA | NA | NA | 0.1484536 | 0.0603389 | 0.2087925 | 0.6523542 | 0.2651492 | 0.9175034 | 1 | 2.546368 | 1.745561 | 0.1484536 | 0.6523542 | NA | 1.0349707 | 0.0603389 | 0.7094826 | 0.2651492 | NA | 3.581339 | 2.455043 | 0.2087925 | 0.9175034 | NA | 106.37206 | 17.96733 | 25.25477 | 7.867081 | 60.37949 | 1 | 1 | 1 | 0.22 | 1 | 1 | 1 | 60.37949 | 17.96733 | 25.25477 | 7.867081 | 1 | 106.37206 | 103.60159 | 2.770471 | 0.5828046 | 0.1734272 | 0.2437682 | 1.614643 | 0.4804750 | 0.6753527 | 61.99413 | 18.44781 | 25.93013 | 0.3901618 | 0.2856486 | 42.49759 | 12.64615 | 55.14374 | 3.614265 | 1.075509 | 4.689775 | 15.88228 | 4.726145 | 20.60842 | NA | NA | NA | 61.99413 | 18.44781 | 80.44194 | 25.93013 | 46.53855 | 106.37206 | 54.56887 | 114.23914 |
-| 587390 | M331 | S | 8 | 8_1_119_80086_1_1 | 1.223463e+13 | 2007 | NA | 42.0 | 5.50 | 42.0 | 1.223461e+13 | 1 | 122 | 2 | 0 | 1.842348 | 110.01284 | 56.43659 | 0 | 0 | 30 | 42 | M331In | 0 | 4 | 0.38 | 0.92 | 1 | 1 | 1 | 51.3 | M330 | 56.1 | FALSE | 122 M330 | 122 | 9 | 7 | 5.50 | 42.0 | 2.648271 | 1.0732257 | 3.721497 | 19.42493 | 1.842349 | 2.588970 | 0.7466214 | 0.1515948 | 0.2130294 | 0.0614346 | 0.6543278 | 0.9194975 | 0.2651697 | 5 | NA | NA | NA | 1 | 2.648271 | 1.0732257 | 3.721497 | 1.842349 | 0.7466214 | 2.588970 | NA | NA | NA | 0.1515948 | 0.0614346 | 0.2130294 | 0.6543278 | 0.2651697 | 0.9194975 | 1 | 2.648271 | 1.842349 | 0.1515948 | 0.6543278 | NA | 1.0732257 | 0.0614346 | 0.7466214 | 0.2651697 | NA | 3.721497 | 2.588970 | 0.2130294 | 0.9194975 | NA | 110.01284 | 18.55286 | 25.73548 | 8.002773 | 62.79581 | 1 | 1 | 1 | 0.30 | 1 | 1 | 1 | 62.79581 | 18.55286 | 25.73548 | 8.002773 | 1 | 110.01284 | 107.08414 | 2.928699 | 0.5864156 | 0.1732549 | 0.2403295 | 1.717435 | 0.5074115 | 0.7038528 | 64.51325 | 19.06027 | 26.43933 | 0.3903928 | 0.2846121 | 44.88056 | 13.25984 | 58.14040 | 3.692927 | 1.091066 | 4.783993 | 15.93976 | 4.709359 | 20.64912 | NA | NA | NA | 64.51325 | 19.06027 | 83.57351 | 26.43933 | 47.08845 | 110.01284 | 56.43659 | 118.01562 |
+| 244866 | 212 | H | 27 | 27_1_137_10499_1_1 | 9.895841e+13 | 2005 | NA | 78 | 22.7 | 78 | 9.895839e+13 | 1 | 371 | 2 | 1 | 88.547403 | 4382.039700 | 2138.435374 | 0 | 0 | 60 | 78 | 212La | 0 | 7 | 0.55 | 0.54 | 1 | 1 | 1 | 48.8 | 210 | 38.6 | FALSE | 371 210 | 371 | 11 | 9 | 22.7 | 78 | 92.5906777 | 11.8226222 | 104.4132999 | 73.45555 | 88.547405 | 99.853754 | 11.3063490 | 3.8958927 | 4.3933474 | 0.4974547 | 0.1473801 | 0.1661986 | 0.0188185 | 60.396586 | 85.68999 | 96.63149 | 10.941495 | 1 | 92.5906777 | 11.8226222 | 104.4132999 | 88.547405 | 11.3063490 | 99.853754 | 85.68999 | 10.941495 | 96.63149 | 3.8958927 | 0.4974547 | 4.3933474 | 0.1473801 | 0.0188185 | 0.1661986 | 0.99 | 91.6647709 | 87.661931 | 3.8569338 | 0.1459063 | 84.83309 | 11.8226222 | 0.4974547 | 11.3063490 | 0.0188185 | 10.941495 | 103.4873931 | 98.968280 | 4.3543885 | 0.1647248 | 95.77459 | 4395.087431 | 379.666781 | 1366.4719663 | 28.7879020 | 3177.712057 | 0.9954 | 0.9954 | 1 | 0.60 | 1 | 1 | 1 | 3163.094582 | 379.666781 | 1366.4719663 | 28.7879020 | 0.9970313 | 4382.039700 | 4909.233329 | -527.193629 | 0.6443154 | 0.0773373 | 0.2783473 | -339.6789683 | -40.7717244 | -146.7429366 | 2823.415613 | 338.895057 | 1219.7290297 | 0.4886782 | 0.4593744 | 2700.12200 | 324.096103 | 3024.21810 | 118.799480 | 14.2595218 | 133.059002 | 4.494137 | 0.5394321 | 5.033569 | 2612.9894 | 313.6376 | 2926.627 | 2823.415613 | 338.895057 | 3162.310670 | 1219.7290297 | 1224.76260 | 4382.039700 | 2138.435374 | 4410.827602 |
+| 1118780 | 212 | H | 27 | 27_1_137_10499_1_2 | 9.895841e+13 | 2005 | NA | 58 | 9.1 | 58 | 9.895839e+13 | 1 | 316 | 2 | 1 | 9.800291 | 477.679682 | 232.152325 | 0 | 0 | 20 | 58 | 212La | 0 | 7 | 0.49 | 0.54 | 1 | 1 | 1 | 48.6 | 210 | 38.6 | FALSE | 316 210 | 316 | 11 | 9 | 9.1 | 58 | 10.9123883 | 1.5541758 | 12.4665641 | 40.41126 | 9.800290 | 11.196077 | 1.3957873 | 0.5776558 | 0.6599273 | 0.0822715 | 0.5344428 | 0.6105598 | 0.0761170 | 6.927049 | NA | NA | NA | 1 | 10.9123883 | 1.5541758 | 12.4665641 | 9.800290 | 1.3957873 | 11.196077 | NA | NA | NA | 0.5776558 | 0.0822715 | 0.6599273 | 0.5344428 | 0.0761170 | 0.6105598 | 0.99 | 10.8032644 | 9.702287 | 0.5718792 | 0.5290983 | NA | 1.5541758 | 0.0822715 | 1.3957873 | 0.0761170 | NA | 12.3574402 | 11.098074 | 0.6541507 | 0.6052153 | NA | 479.202668 | 43.798799 | 105.4712392 | 10.5603131 | 333.657184 | 0.9954 | 0.9954 | 1 | 0.20 | 1 | 1 | 1 | 332.122361 | 43.798799 | 105.4712392 | 10.5603131 | 0.9968218 | 477.679682 | 481.392399 | -3.712717 | 0.6899202 | 0.0909836 | 0.2190962 | -2.5614784 | -0.3377962 | -0.8134421 | 329.560882 | 43.461002 | 104.6577971 | 0.4839843 | 0.4481413 | 295.97482 | 39.031824 | 335.00664 | 17.445562 | 2.3006421 | 19.746204 | 16.140503 | 2.1285367 | 18.269039 | NA | NA | NA | 329.560882 | 43.461002 | 373.021885 | 104.6577971 | 122.92684 | 477.679682 | 232.152325 | 488.239995 |
+| 1573467 | 212 | S | 27 | 27_1_137_10499_1_3 | 9.895841e+13 | 2005 | NA | 34 | 5.6 | 34 | 9.895839e+13 | 1 | 12 | 2 | 1 | 1.869570 | 96.386245 | 48.771440 | 0 | 0 | 70 | 34 | 212La | 0 | 3 | 0.33 | 0.92 | 1 | 1 | 1 | 50.6 | 210 | 48.0 | FALSE | 12 210 | 12 | 9 | 7 | 5.6 | 34 | 2.6731790 | 0.3680522 | 3.0412312 | 15.91669 | 1.869569 | 2.126977 | 0.2574084 | 0.2162790 | 0.2460570 | 0.0297780 | 0.5873314 | 0.6681971 | 0.0808657 | 5.000000 | NA | NA | NA | 1 | 2.6731790 | 0.3680522 | 3.0412312 | 1.869569 | 0.2574084 | 2.126977 | NA | NA | NA | 0.2162790 | 0.0297780 | 0.2460570 | 0.5873314 | 0.0808657 | 0.6681971 | 0.99 | 2.6464472 | 1.850873 | 0.2141162 | 0.5814580 | NA | 0.3680522 | 0.0297780 | 0.2574084 | 0.0808657 | NA | 3.0144994 | 2.108281 | 0.2438943 | 0.6623238 | NA | 96.430772 | 9.681823 | 30.6423370 | 17.5484838 | 55.046101 | 0.9992 | 0.9992 | 1 | 0.70 | 1 | 1 | 1 | 55.002065 | 9.681823 | 30.6423370 | 17.5484838 | 0.9995383 | 96.386245 | 95.326225 | 1.060021 | 0.5769878 | 0.1015652 | 0.3214471 | 0.6116189 | 0.1076612 | 0.3407405 | 55.613683 | 9.789485 | 30.9830775 | 0.3334026 | 0.4262514 | 38.89511 | 6.846572 | 45.74168 | 4.499539 | 0.7920383 | 5.291577 | 12.219032 | 2.1508740 | 14.369906 | NA | NA | NA | 55.613683 | 9.789485 | 65.403168 | 30.9830775 | 45.35298 | 96.386245 | 48.771440 | 113.934729 |
+| 868355 | 212 | H | 27 | 27_1_137_10499_1_4 | 9.895841e+13 | 2005 | NA | 52 | 7.2 | 52 | 9.895839e+13 | 1 | 316 | 2 | 1 | 5.271121 | 274.916141 | 133.609244 | 0 | 0 | 65 | 52 | 212La | 0 | 7 | 0.49 | 0.54 | 1 | 1 | 1 | 48.6 | 210 | 38.6 | FALSE | 316 210 | 316 | 11 | 9 | 7.2 | 52 | 6.2857487 | 0.9034122 | 7.1891609 | 30.70862 | 5.271119 | 6.028704 | 0.7575856 | 0.3676814 | 0.4205260 | 0.0528446 | 0.6469488 | 0.7399308 | 0.0929820 | 5.000000 | NA | NA | NA | 1 | 6.2857487 | 0.9034122 | 7.1891609 | 5.271119 | 0.7575856 | 6.028704 | NA | NA | NA | 0.3676814 | 0.0528446 | 0.4205260 | 0.6469488 | 0.0929820 | 0.7399308 | 0.99 | 6.2228912 | 5.218407 | 0.3640046 | 0.6404793 | NA | 0.9034122 | 0.0528446 | 0.7575856 | 0.0929820 | NA | 7.1263034 | 5.975993 | 0.4168492 | 0.7334613 | NA | 275.810220 | 27.568973 | 52.9659466 | 7.1597148 | 192.193051 | 0.9954 | 0.9954 | 1 | 0.65 | 1 | 1 | 1 | 191.308963 | 27.568973 | 52.9659466 | 7.1597148 | 0.9967584 | 274.916141 | 271.843883 | 3.072258 | 0.7037457 | 0.1014147 | 0.1948396 | 2.1620882 | 0.3115722 | 0.5985974 | 193.471052 | 27.880545 | 53.5645440 | 0.4932583 | 0.4945734 | 162.24143 | 23.380136 | 185.62156 | 11.316983 | 1.6308571 | 12.947840 | 19.912643 | 2.8695525 | 22.782195 | NA | NA | NA | 193.471052 | 27.880545 | 221.351597 | 53.5645440 | 76.34674 | 274.916141 | 133.609244 | 282.075856 |
+| 1046441 | 212 | H | 27 | 27_1_137_10499_2_10 | 9.895843e+13 | 2005 | NA | 20 | 1.7 | 20 | 9.895839e+13 | 1 | 316 | 2 | 0 | NA | 8.175939 | 3.973506 | 0 | 0 | 50 | NA | 212La | 0 | 7 | 0.49 | 0.54 | 1 | 1 | 1 | 48.6 | 210 | 38.6 | FALSE | 316 210 | 316 | 11 | 9 | 1.7 | 20 | 0.1537082 | 0.0308045 | 0.1845128 | NA | NA | NA | NA | NA | NA | NA | NA | NA | NA | NA | NA | NA | NA | 1 | 0.1537082 | 0.0308045 | 0.1845128 | NA | NA | NA | NA | NA | NA | NA | NA | NA | NA | NA | NA | 1.00 | 0.1537082 | NA | NA | NA | NA | 0.0308045 | NA | NA | NA | NA | 0.1845128 | NA | NA | NA | NA | 8.175939 | 1.388624 | 0.6216662 | 0.8595601 | 4.699783 | 1.0000 | 1.0000 | 1 | 0.50 | 1 | 1 | 1 | 4.699783 | 1.388624 | 0.6216662 | 0.8595601 | 1.0000000 | 8.175939 | 6.710073 | 1.465866 | 0.7004071 | 0.2069462 | 0.0926467 | 1.0267029 | 0.3033553 | 0.1358077 | 5.726486 | 1.691979 | 0.7574739 | 0.5970442 | 0.8802291 | NA | NA | NA | NA | NA | NA | NA | NA | NA | NA | NA | NA | 5.726486 | 1.691979 | 7.418465 | 0.7574739 | NA | 8.175939 | 3.973507 | 9.035499 |
+| 661684 | 212 | H | 27 | 27_1_137_10499_2_2 | 9.895842e+13 | 2005 | NA | 78 | 15.0 | 78 | 9.895839e+13 | 1 | 743 | 2 | 1 | 38.645440 | 1571.295326 | 754.221756 | 0 | 0 | 35 | 78 | 212La | 0 | 6 | 0.36 | 0.54 | 1 | 1 | 1 | 48.0 | 210 | 38.6 | FALSE | 743 210 | 743 | 11 | 9 | 15.0 | 78 | 40.3175350 | 4.9072768 | 45.2248118 | 68.08895 | 38.645438 | 43.349194 | 4.7037563 | 1.3394184 | 1.5024467 | 0.1630282 | 0.3326788 | 0.3731710 | 0.0404922 | 43.978007 | 33.23108 | 37.27582 | 4.044744 | 1 | 40.3175350 | 4.9072768 | 45.2248118 | 38.645438 | 4.7037563 | 43.349194 | 33.23108 | 4.044744 | 37.27582 | 1.3394184 | 0.1630282 | 1.5024467 | 0.3326788 | 0.0404922 | 0.3731710 | 0.99 | 39.9143596 | 38.258983 | 1.3260242 | 0.3293520 | 32.89877 | 4.9072768 | 0.1630282 | 4.7037563 | 0.0404922 | 4.044744 | 44.8216364 | 42.962740 | 1.4890525 | 0.3698443 | 36.94351 | 1575.794451 | 233.158011 | 320.3338694 | 17.1443426 | 905.693106 | 0.9954 | 0.9954 | 1 | 0.35 | 1 | 1 | 1 | 901.526918 | 233.158011 | 320.3338694 | 17.1443426 | 0.9971449 | 1571.295326 | 1455.018798 | 116.276528 | 0.6195981 | 0.1602440 | 0.2201579 | 72.0447186 | 18.6326142 | 25.5991951 | 973.571636 | 251.790625 | 345.9330645 | 0.3869807 | 0.8222699 | 933.19450 | 241.348062 | 1174.54257 | 32.343738 | 8.3649212 | 40.708659 | 8.033394 | 2.0776421 | 10.111036 | 802.4507 | 207.5344 | 1009.985 | 973.571636 | 251.790625 | 1225.362261 | 345.9330645 | 356.04410 | 1571.295326 | 754.221756 | 1588.439668 |
 
 Plot carbon estimates for different interpolation methods:
 
